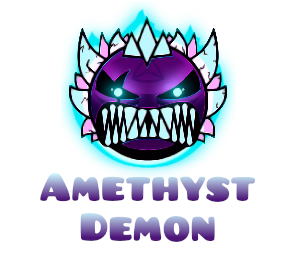
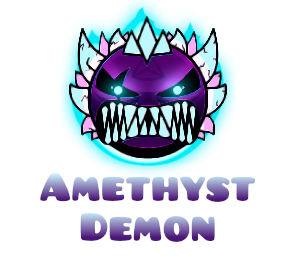
v1.0.8

Changed region(s): [[0.2114, 0.0311, 0.7852, 0.6537]]

diff --git a/src/popups/StatsPopup.hpp b/src/popups/StatsPopup.hpp
@@ -42,7 +42,7 @@ const std::vector<int> NormalTitleRequirements = {
 	8,
 	10,
 	12,
-	13
+	14
 };
 
 const std::vector<ccColor3B> NormalTitleColors = {
@@ -57,7 +57,7 @@ const std::vector<std::string> NormalTitleDescriptions = {
 	"Get the normal ranks from Beginner to Sapphire",
 	"Get the normal ranks from Beginner to Emerald",
 	"Get the normal ranks from Beginner to Diamond",
-	"Get the normal ranks from Beginner to Amethyst",
+	"Get the normal ranks from Beginner to Onyx",
 	"Get the normal ranks from Beginner to Azurite"
 };
 
@@ -69,6 +69,7 @@ const std::vector<std::string> PlusTitles = { //String is the Title Name, int is
 	"EXTRAORDINARY",
 	"EXPERT",
 	"EXCESSIVE",
+	"EXTREME",
 	"EXALTED",
 	"PERFECTION" //ABSOLUTE PERFECTION is a special case, thus it is exempt.
 };
@@ -82,7 +83,8 @@ const std::vector<int> PlusTitleRequirements = {
 	9,
 	10,
 	11,
-	12
+	12,
+	13
 };
 
 const std::vector<ccColor3B> PlusTitleColors = {
@@ -93,6 +95,7 @@ const std::vector<ccColor3B> PlusTitleColors = {
 	{ 63, 122, 255 },
 	{ 118, 92, 255 },
 	{ 98, 36, 255 },
+	{ 115, 0, 255 },
 	{ 181, 67, 255 },
 	{ 255, 90, 255 }
 };
@@ -105,6 +108,7 @@ const std::vector<std::string> PlusTitleDescriptions = {
 	"Achieve every rank from Beginner to Emerald+",
 	"Achieve every rank from Beginner to Ruby+",
 	"Achieve every rank from Beginner to Diamond+",
+	"Achieve every rank from Beginner to Pearl+",
 	"Achieve every rank from Beginner to Onyx+",
 	"Achieve every rank from Beginner to Amethyst+"
 };

diff --git a/src/popups/StatsPopup.cpp b/src/popups/StatsPopup.cpp
@@ -127,7 +127,7 @@ void StatsPopup::loadTab(int id) {
 
 			auto milestone = floor(getScore() / 25);
 			auto milestoneStr = fmt::format("Next Milestone at {}", (milestone + 1) * 25);
-			if (milestone >= 10) {
+			if (milestone >= 14) {
 				milestoneStr = "All Milestones Reached!";
 			}
 
@@ -979,10 +979,10 @@ void StatsPopup::loadTab(int id) {
 			contentLayer->addChild(normalSection);
 			contentLayer->addChild(plusSection);
 
-			contentLayer->setPositionY(350.f);
+			contentLayer->setPositionY(375.f);
 			contentLayer->setContentHeight(1000.f);
-			scrollLayer->m_contentLayer->setPositionY(-385.f);
-			scrollLayer->m_contentLayer->setContentHeight(560.f);
+			scrollLayer->m_contentLayer->setPositionY(-405.f);
+			scrollLayer->m_contentLayer->setContentHeight(580.f);
 
 			scrollLayer->m_contentLayer->addChild(contentLayer);
 			break;

diff --git a/changelog.md b/changelog.md
@@ -1,3 +1,10 @@
+# v1.0.8
+
+* Added Sprites for Pearl Tier
+* Fixed Onyx & Amethyst Sprite Alignment
+* Added "EXTREME" Plus Title
+* Lowered "GRANDMASTER" Title Requirement
+
 # v1.0.7
 
 * Ported to iOS
